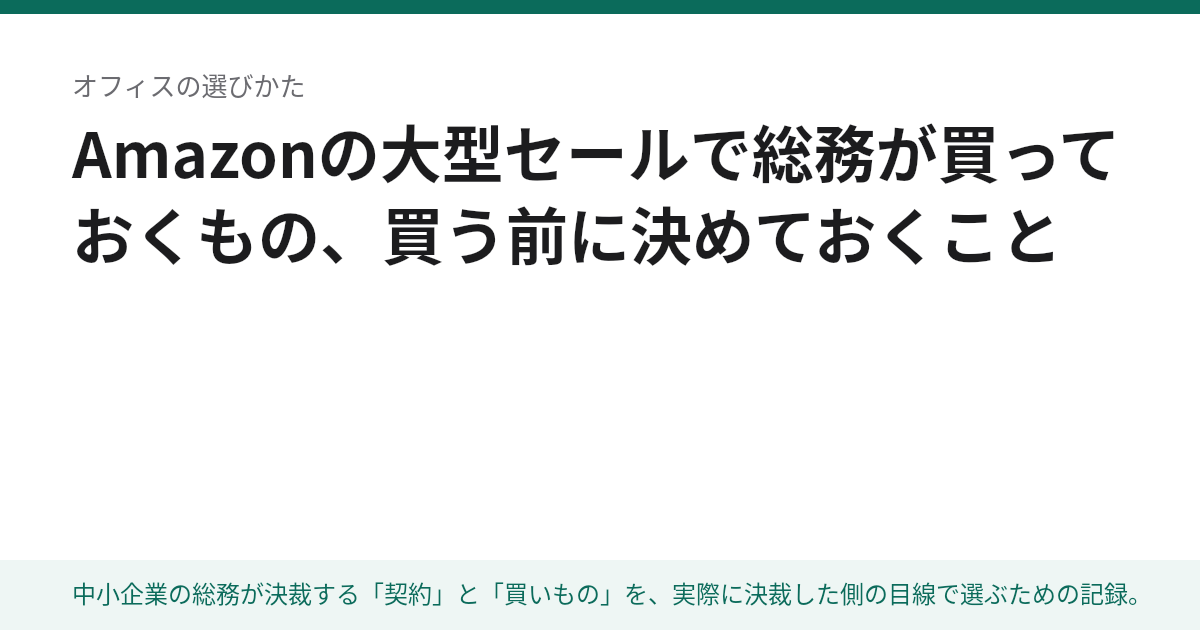
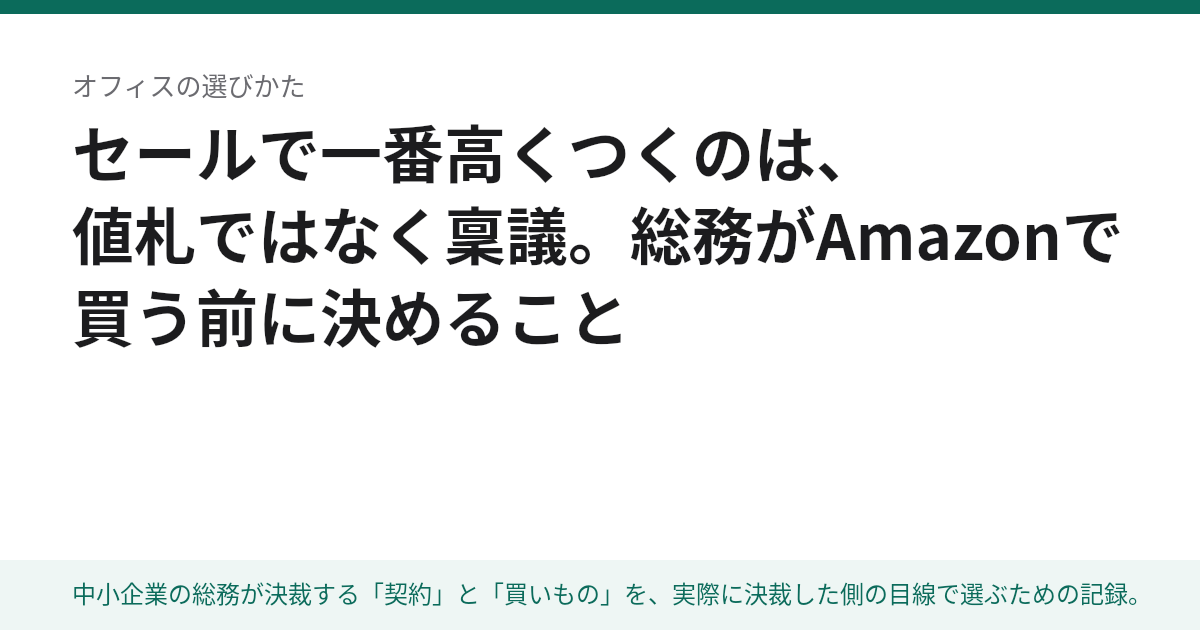
セールの記事：題名を「セールで一番高くつくのは、値札ではなく稟議」に
Claude-Session: https://claude.ai/code/session_019U4vhCewsmdUYLg8UMYcCo

Changed region(s): [[0.0617, 0.181, 0.925, 0.3016], [0.0617, 0.3317, 0.9558, 0.4222], [0.0617, 0.4524, 0.5242, 0.573]]

diff --git a/docs/kiji/amazon-prime-sale-soumu-purchases.html b/docs/kiji/amazon-prime-sale-soumu-purchases.html
@@ -3,10 +3,10 @@
 <head>
 <meta charset="utf-8">
 <meta name="viewport" content="width=device-width, initial-scale=1">
-<title>Amazonの大型セールで総務が買っておくもの、買う前に決めておくこと｜オフィスの選びかた</title>
+<title>セールで一番高くつくのは、値札ではなく稟議。総務がAmazonで買う前に決めること｜オフィスの選びかた</title>
 <meta name="description" content="プライム感謝祭やブラックフライデーなど、Amazonの大型セールで会社の備品を買うときの総務の判断基準。稟議の先回り、インボイスの確認、個人アカウントで買わないこと、セールで買ってよい物と待つべき物を実務の目線でまとめました。">
 <link rel="canonical" href="https://soumu-choice.com/kiji/amazon-prime-sale-soumu-purchases.html">
-<meta property="og:title" content="Amazonの大型セールで総務が買っておくもの、買う前に決めておくこと｜オフィスの選びかた">
+<meta property="og:title" content="セールで一番高くつくのは、値札ではなく稟議。総務がAmazonで買う前に決めること｜オフィスの選びかた">
 <meta property="og:description" content="プライム感謝祭やブラックフライデーなど、Amazonの大型セールで会社の備品を買うときの総務の判断基準。稟議の先回り、インボイスの確認、個人アカウントで買わないこと、セールで買ってよい物と待つべき物を実務の目線でまとめました。">
 <meta property="og:type" content="article">
 <meta property="og:url" content="https://soumu-choice.com/kiji/amazon-prime-sale-soumu-purchases.html">
@@ -16,9 +16,9 @@
 <meta property="og:image:height" content="630">
 <meta name="twitter:card" content="summary_large_image">
 <meta name="twitter:image" content="https://soumu-choice.com/ogp/kiji-amazon-prime-sale-soumu-purchases.png">
-<script type="application/ld+json">{"@context":"https://schema.org","@type":"BlogPosting","headline":"Amazonの大型セールで総務が買っておくもの、買う前に決めておくこと｜オフィスの選びかた","description":"プライム感謝祭やブラックフライデーなど、Amazonの大型セールで会社の備品を買うときの総務の判断基準。稟議の先回り、インボイスの確認、個人アカウントで買わないこと、セールで買ってよい物と待つべき物を実務の目線でまとめました。","url":"https://soumu-choice.com/kiji/amazon-prime-sale-soumu-purchases.html","inLanguage":"ja","datePublished":"2026-10-07","dateModified":"2026-10-07","isPartOf":{"@type":"WebSite","name":"オフィスの選びかた","url":"https://soumu-choice.com/"}}</script>
+<script type="application/ld+json">{"@context":"https://schema.org","@type":"BlogPosting","headline":"セールで一番高くつくのは、値札ではなく稟議。総務がAmazonで買う前に決めること｜オフィスの選びかた","description":"プライム感謝祭やブラックフライデーなど、Amazonの大型セールで会社の備品を買うときの総務の判断基準。稟議の先回り、インボイスの確認、個人アカウントで買わないこと、セールで買ってよい物と待つべき物を実務の目線でまとめました。","url":"https://soumu-choice.com/kiji/amazon-prime-sale-soumu-purchases.html","inLanguage":"ja","datePublished":"2026-10-07","dateModified":"2026-10-07","isPartOf":{"@type":"WebSite","name":"オフィスの選びかた","url":"https://soumu-choice.com/"}}</script>
 <script type="application/ld+json">{"@context":"https://schema.org","@type":"FAQPage","mainEntity":[{"@type":"Question","name":"セール中に、個人のアカウントで買って立替精算してもよいですか。","acceptedAnswer":{"@type":"Answer","text":"社内の規程で認められていれば可能ですが、おすすめしません。領収書の宛名、配送先、購入履歴が担当者個人に残り、担当が変わったときに追えなくなります。会社の物は会社のアカウントで買う、と手順書に書いておくのが安全です。"}},{"@type":"Question","name":"インボイスが出ない出品者から買ってしまいました。どうなりますか。","acceptedAnswer":{"@type":"Answer","text":"仕入税額控除の扱いが変わることがあります。経過措置の期間中は一部が控除できる場合もありますが、扱いは時期と金額で異なります。顧問の税理士か経理の担当に、購入した日付と金額を伝えて確認してください。"}},{"@type":"Question","name":"セールのたびに稟議を起こすのが大変です。","acceptedAnswer":{"@type":"Answer","text":"年に1回、品目と年間の上限額をまとめた「備品の定期購入の枠」として承認を取っておく方法があります。セールの日は枠の中で買うだけになり、承認を待たずに済みます。"}},{"@type":"Question","name":"Kindle Unlimitedの無料体験は、会社のアカウントで申し込むべきですか。","acceptedAnswer":{"@type":"Answer","text":"読む人が個人で使うサービスなので、個人のアカウントで申し込むのが一般的です。会社の経費にする場合は、社内の規程と、誰が使うかを先に決めてください。"}}]}</script>
-<script type="application/ld+json">{"@context":"https://schema.org","@type":"BreadcrumbList","itemListElement":[{"@type":"ListItem","position":1,"name":"オフィスの選びかた","item":"https://soumu-choice.com/"},{"@type":"ListItem","position":2,"name":"Amazonの大型セールで総務が買っておくもの、買う前に決めておくこと｜オフィスの選びかた","item":"https://soumu-choice.com/kiji/amazon-prime-sale-soumu-purchases.html"}]}</script>
+<script type="application/ld+json">{"@context":"https://schema.org","@type":"BreadcrumbList","itemListElement":[{"@type":"ListItem","position":1,"name":"オフィスの選びかた","item":"https://soumu-choice.com/"},{"@type":"ListItem","position":2,"name":"セールで一番高くつくのは、値札ではなく稟議。総務がAmazonで買う前に決めること｜オフィスの選びかた","item":"https://soumu-choice.com/kiji/amazon-prime-sale-soumu-purchases.html"}]}</script>
 <link rel="preconnect" href="https://fonts.googleapis.com">
 <link rel="preconnect" href="https://fonts.gstatic.com" crossorigin>
 <link rel="stylesheet" href="https://fonts.googleapis.com/css2?family=Anton&family=Zen+Kaku+Gothic+New:wght@400;500;700&display=swap">
@@ -42,10 +42,10 @@
 <main class="main-read">
 
 <article>
-  <h1>Amazonの大型セールで総務が買っておくもの、買う前に決めておくこと</h1>
+  <h1>セールで一番高くつくのは、値札ではなく稟議。総務がAmazonで買う前に決めること</h1>
   <p class="meta">2026-10-07　<span class="tag">Amazon</span><span class="tag">備品の購入</span><span class="tag">稟議</span><span class="tag">インボイス</span><span class="tag">総務の実務</span></p>
   <p class="ad-notice">この記事には広告（Amazonアソシエイトのリンク）が含まれます。</p>
-  <p class="lead">Amazonの大型セールは、総務にとって「安く買える1週間」であると同時に「稟議が間に合わない1週間」です。セールが始まってから見積を取り、上長の承認を待っているうちに終わります。しかも、安さにつられて個人のアカウントで買ったり、インボイス（適格請求書）が出ない出品者から買ったりすると、経理で差し戻されて、安くなった分より手間のほうが高くつきます。この記事を読み終えると、セールの前に何を決めておけば当日は買うだけで済むか、セールで買ってよい物と待つべき物の見分け方まで、自社の手順として決められる状態になります。</p>
+  <p class="lead">Amazonの大型セールで、総務がいちばん損をするのは値段ではありません。セールが始まってから見積を取り、上長の承認を待っているうちに終わる。安さにつられて個人のアカウントで買い、インボイス（適格請求書）が出ない出品者から買って、経理で差し戻される。安くなった分より、手間のほうが高くつきます。この記事を読み終えると、セールの前に何を決めておけば当日は買うだけで済むか、セールで買ってよい物と待つべき物の見分け方まで、自社の手順として決められる状態になります。</p>
 
   <aside class="tldr" aria-label="先に結論">
   <div class="tldr-nums">

diff --git a/docs/index.html b/docs/index.html
@@ -86,7 +86,7 @@
 <li class="card">
   <a class="card-a" href="kiji/amazon-prime-sale-soumu-purchases.html">
     <p class="date">2026-10-07</p>
-    <h3>Amazonの大型セールで総務が買っておくもの、買う前に決めておくこと</h3>
+    <h3>セールで一番高くつくのは、値札ではなく稟議。総務がAmazonで買う前に決めること</h3>
     <p class="desc">プライム感謝祭やブラックフライデーなど、Amazonの大型セールで会社の備品を買うときの総務の判断基準。稟議の先回り、インボイスの確認、個人アカウントで買わないこと、セールで買ってよい物と待つべき物を実務の目線でまとめました。</p>
     <p class="tags"><span class="tag">Amazon</span><span class="tag">備品の購入</span><span class="tag">稟議</span><span class="tag">インボイス</span><span class="tag">総務の実務</span></p>
   </a>
